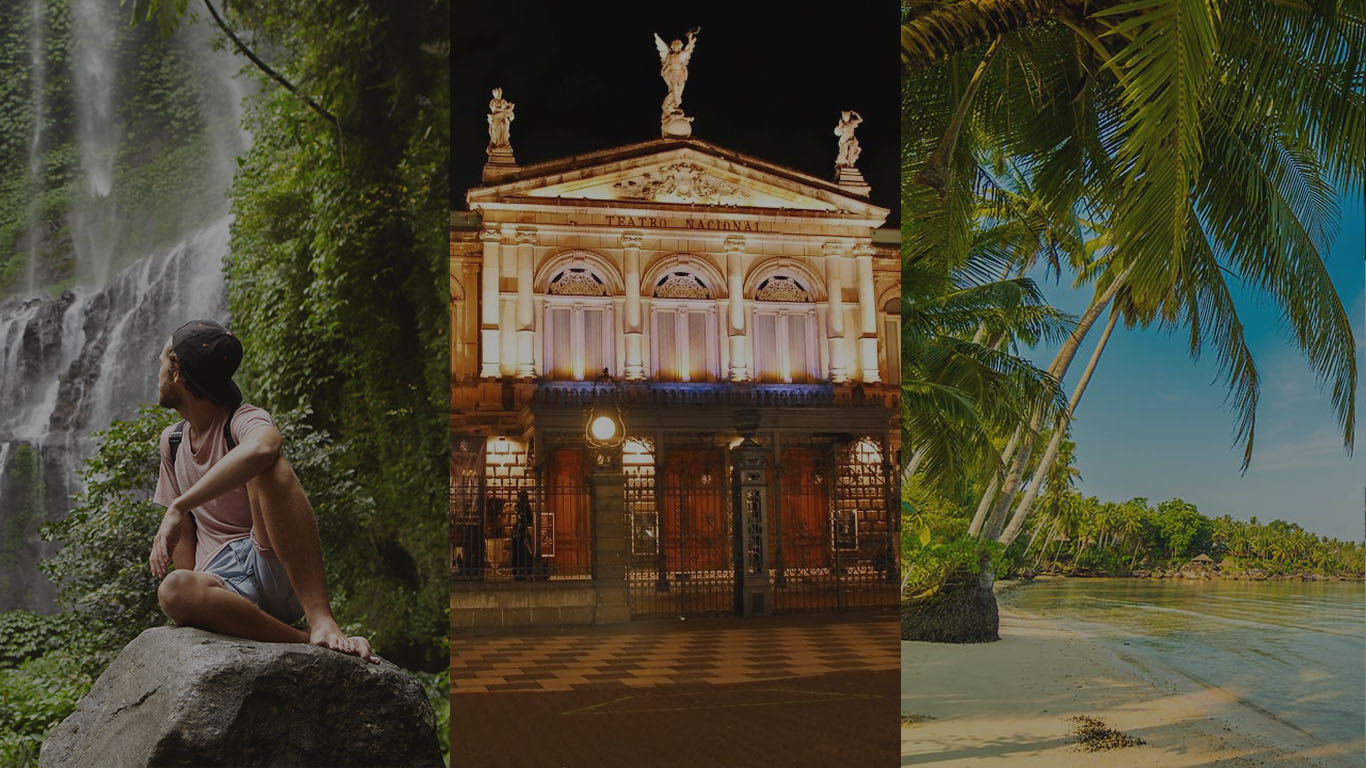
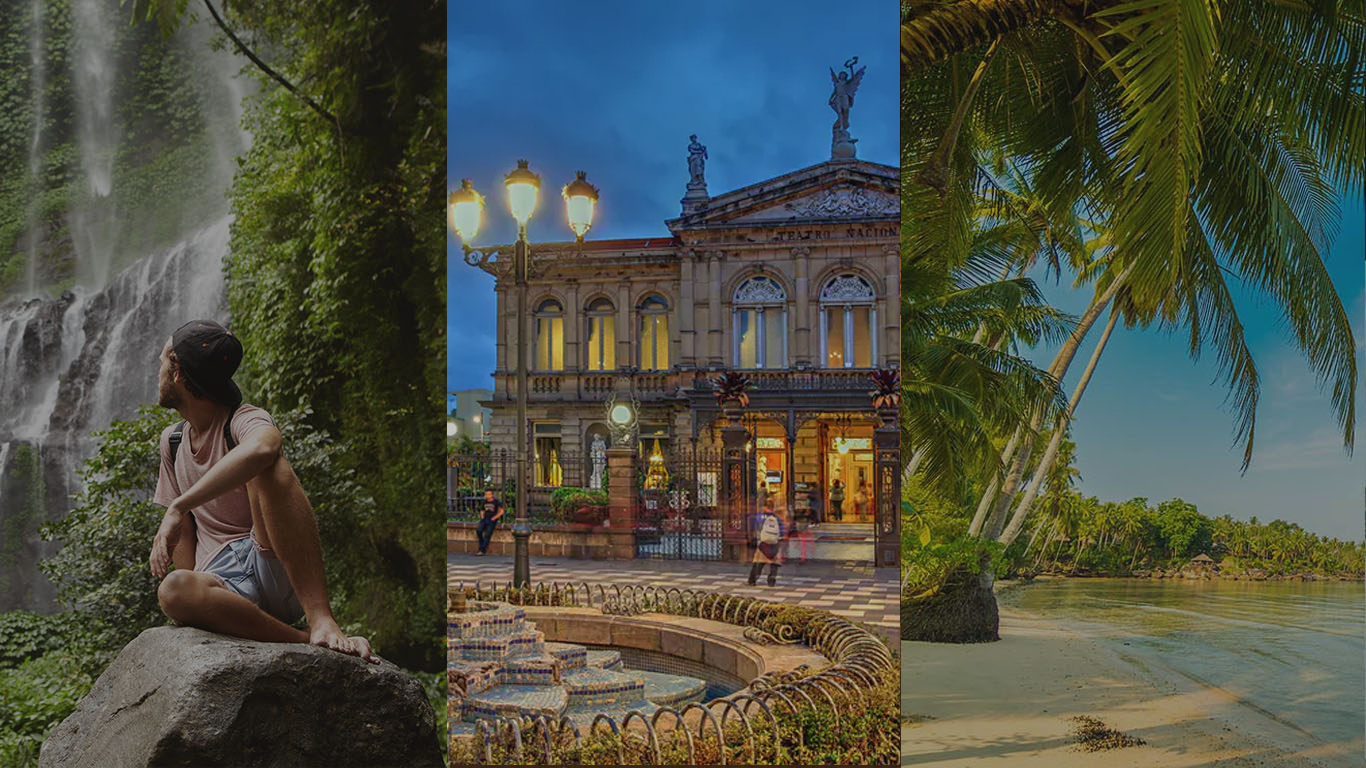
no no habia terminado xd

Changed region(s): [[0.3075, 0.0, 0.6764, 1.0]]

diff --git a/galeria.html b/galeria.html
@@ -55,6 +55,7 @@
 
 
     <section class="top-section">
+        <div class="filtro"></div>
         <div class="center ts-text">
             <h1 class="title center">Te interesa alguna categoria</h1>
             <div class="buttons">
@@ -65,7 +66,7 @@
                 </div>
                 <div>
                     <div class="center">
-                        <a class="button-b" href="./galeria.html">Ciudad</a>
+                        <a class="button-b" href="./ciudad.html">Ciudad</a>
                     </div>
 
                 </div>
@@ -77,7 +78,7 @@
                 </div>
             </div>
         </div>
-
+        
     </section>
 
     <section class="body">

diff --git a/css/ciudad.css b/css/ciudad.css
@@ -5,7 +5,21 @@
     padding: 0;
     height: 76vh;
     background: url("../imgs/ciudad.jpg") no-repeat;
-    background-size: 100%;
-    background-position: 0em 0em ;
+    background-size: 100% 180%;
+    background-position: 0em -6em ;
 
+}
+.title{
+        color:var(--orange);
+}
+
+@media (max-width: 800px) {
+    .title{
+        font-size: 4vh;
+    }
+    .top-section{
+        background: url("../imgs/ciudad-movil.jpg") no-repeat;
+        background-size: 115% 90%;
+    }
+    
 }

diff --git a/index.html b/index.html
@@ -51,7 +51,7 @@
 
 
     <section class="top-section">
-        <div class="filtro"></div>
+        
         <div class="center ts-text">
             <h1 class="title">DESCUBRE LO INCREIBLE</h1>
             <div class="center">
